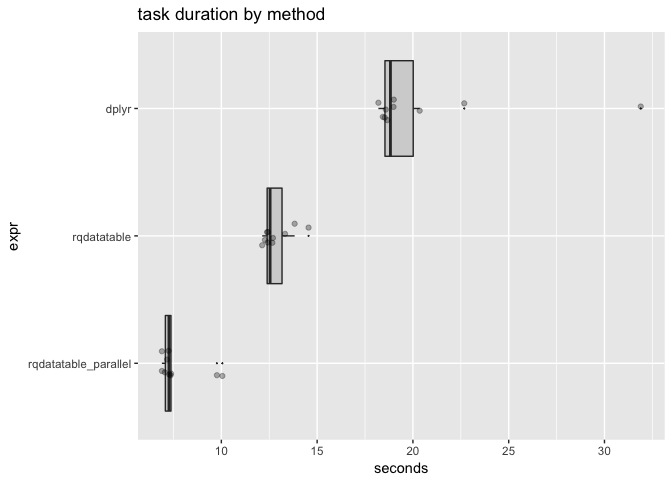
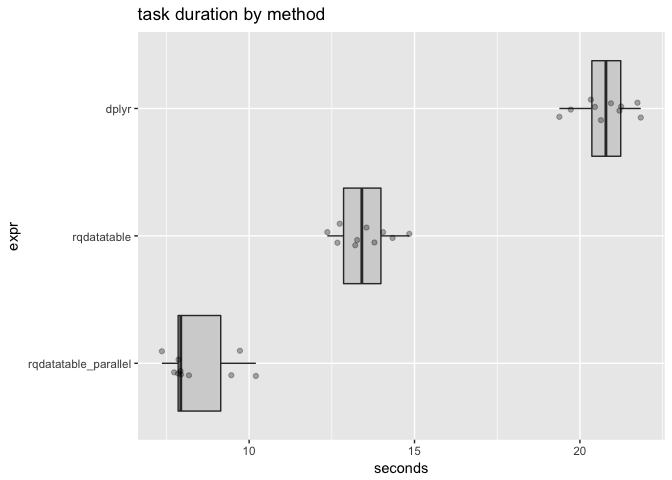
re-run

diff --git a/extras/Parallel_rqdatatable.md b/extras/Parallel_rqdatatable.md
@@ -37,7 +37,7 @@ library("dplyr")
 base::date()
 ```
 
-    ## [1] "Sun Jun 10 09:42:24 2018"
+    ## [1] "Sun Jun 10 09:56:17 2018"
 
 ``` r
 R.version.string
@@ -237,14 +237,14 @@ print(timings)
 ```
 
     ## Unit: seconds
-    ##                  expr       min        lq      mean   median        uq
-    ##  rqdatatable_parallel  6.895417  7.047849  7.708338  7.26522  7.374688
-    ##           rqdatatable 12.132320 12.383989 12.868656 12.54442 13.325613
-    ##                 dplyr 18.197696 18.526309 20.531623 18.82655 20.353618
+    ##                  expr       min        lq     mean    median        uq
+    ##  rqdatatable_parallel  7.362631  7.850774  8.42504  7.934196  9.461763
+    ##           rqdatatable 12.364082 12.737838 13.48126 13.407365 14.049963
+    ##                 dplyr 19.379079 20.330585 20.74812 20.786257 21.247072
     ##       max neval
-    ##  10.05320    10
-    ##  14.55186    10
-    ##  31.89347    10
+    ##  10.20410    10
+    ##  14.84257    10
+    ##  21.83926    10
 
 ``` r
 autoplot(timings)
@@ -345,6 +345,88 @@ dplyr_pipeline(datap, annotationp) %>%
 ```
 
     ## Error in UseMethod("inner_join"): no applicable method for 'inner_join' applied to an object of class "party_df"
+
+[`dtplyr`](https://CRAN.R-project.org/package=dtplyr) does not appear to work on this example, so we could not include it in the timings.
+
+``` r
+library("data.table")
+```
+
+    ## 
+    ## Attaching package: 'data.table'
+
+    ## The following objects are masked from 'package:dplyr':
+    ## 
+    ##     between, first, last
+
+``` r
+library("dtplyr") #  https://CRAN.R-project.org/package=dtplyr
+packageVersion("data.table")
+```
+
+    ## [1] '1.11.4'
+
+``` r
+packageVersion("dtplyr")
+```
+
+    ## [1] '0.0.2'
+
+``` r
+class(data)
+```
+
+    ## [1] "data.frame"
+
+``` r
+datadt <- data.table::as.data.table(data)
+head(datadt)
+```
+
+    ##      key id       info key_group
+    ## 1: key_1  1 0.07279547        20
+    ## 2: key_2  2 0.16457592        12
+    ## 3: key_3  3 0.97850703         7
+    ## 4: key_4  4 0.30758642         8
+    ## 5: key_5  5 0.40178969         4
+    ## 6: key_6  6 0.24435737         8
+
+``` r
+class(datadt)
+```
+
+    ## [1] "data.table" "data.frame"
+
+``` r
+class(annotation)
+```
+
+    ## [1] "data.frame"
+
+``` r
+annotationdt <- data.table::as.data.table(annotation)
+head(annotationdt)
+```
+
+    ##      key      data key_group
+    ## 1: key_1 0.2772080        20
+    ## 2: key_2 0.9200673        12
+    ## 3: key_3 0.7272237         7
+    ## 4: key_4 0.6307832         8
+    ## 5: key_5 0.7028741         4
+    ## 6: key_6 0.5939254         8
+
+``` r
+class(annotationdt)
+```
+
+    ## [1] "data.table" "data.frame"
+
+``` r
+dplyr_pipeline(datadt, annotationdt)
+```
+
+    ## Error in data.table::is.data.table(data): argument "x" is missing, with no default
 
 ``` r
 parallel::stopCluster(cl)
